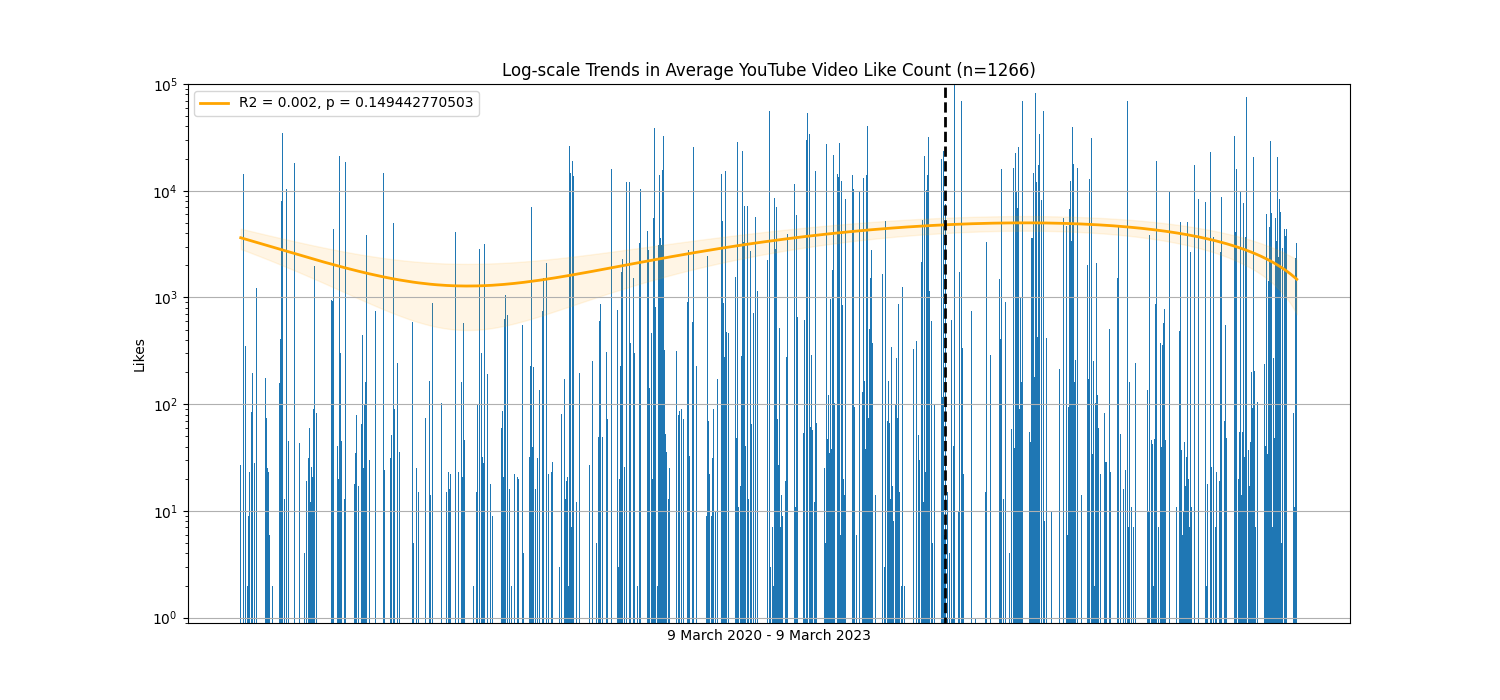
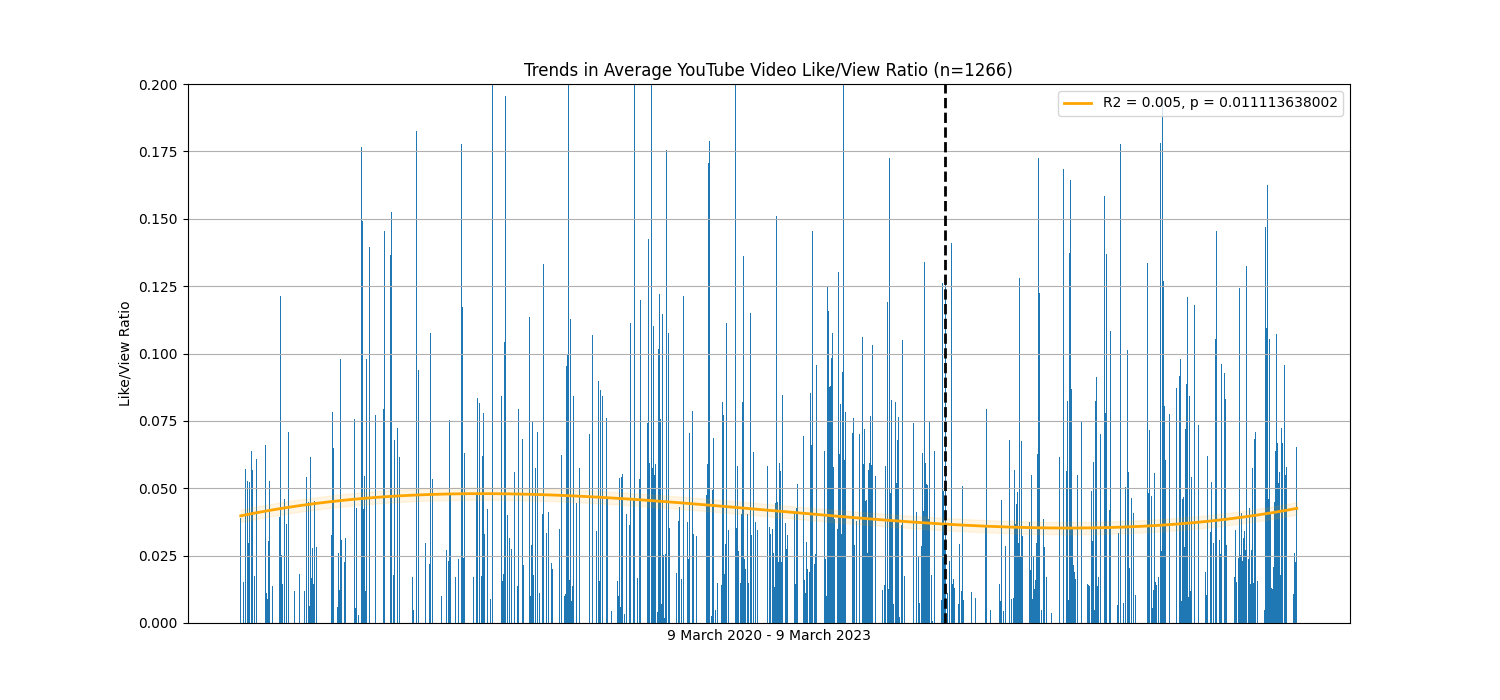
update

diff --git a/analysis.py b/analysis.py
@@ -27,7 +27,7 @@ def add_comment_weighted_scores(comments, videos):
     def calculate_score(comment, views):
         likes = comment['likes']
         replies = comment['reply_count']
-        return 0 if total_views == 0 else 0.5 * (likes*views/total_views) + 0.5 * (replies*views/total_views)
+        return 0.5 * (likes*views/total_views) + 0.5 * (replies*views/total_views)
     for video in comments:
         raw = [list(x.values())[0]['views'] for x in videos if list(x.values())[0]['video_id'] == video and 'views' in list(x.values())[0]]
         if len(raw) == 0:
@@ -41,6 +41,14 @@ def add_comment_weighted_scores(comments, videos):
         video[video_name]['score'] = 0
         for comment in comments[video_id]:
             video[video_name]['score'] += comment['score']
+
+def pretty_date(date1, date2):
+    code = {'01' : 'January', '02' : 'February', '03' : 'March', '04' : 'April', '05' : 'May', '06' : 'June',\
+            '07' : 'July', '08' : 'August', '09' : 'September', '10' : 'October', '11' : 'November', '12' : 'December'}
+    date1y, date1m, date1d = date1.split('-')
+    date2y, date2m, date2d = date2.split('-')
+    return f'{date1d.lstrip("0")} {code[date1m]} {date1y} - {date2d.lstrip("0")} {code[date2m]} {date2y}'
+
 
 
 def get_video_sentiments():
@@ -85,8 +93,9 @@ def get_sample_sizes(videos, video_sentiments, comments, comment_sentiments, vis
         if save_file:
             plt.savefig("images/sample_sizes.png")
 
-def analyze_video_sentiments(videos, video_sentiments):
+def analyze_video_sentiments(videos, video_sentiments, limit=None):
     dates = []
+    overall = []
     toxicity = []
     severe_toxicity = []
     identity_attack = []
@@ -99,7 +108,10 @@ def analyze_video_sentiments(videos, video_sentiments):
         video_id = video_values['video_id']
         if video_id not in video_sentiments:
             continue
-        date = date2num(np.datetime64(video_values['date_published'][:video_values['date_published'].index('T')]))
+        raw_date = video_values['date_published'][:video_values['date_published'].index('T')]
+        if limit and (raw_date < limit[0] or raw_date > limit[1]):
+            continue
+        date = date2num(np.datetime64(raw_date))
         dates.append(date)
         sentiment_values = video_sentiments[video_id]
         toxicity.append(sentiment_values['toxicity'])
@@ -108,11 +120,16 @@ def analyze_video_sentiments(videos, video_sentiments):
         insult.append(sentiment_values['insult'])
         profanity.append(sentiment_values['profanity'])
         threat.append(sentiment_values['threat'])
+        overall.append(sentiment_values['toxicity'] * 1/6 + sentiment_values['severe_toxicity'] * 1/6 + sentiment_values['identity_attack'] * 1/6 + \
+                       sentiment_values['insult'] * 1/6 + sentiment_values['profanity'] * 1/6 + sentiment_values['threat'] * 1/6)
 
     plt.figure(figsize=(15, 7))
     plt.gca().axes.get_xaxis().set_ticks([])
     plt.gca().set_ylim([0, 0.4])
-    plt.xlabel("9 March 2020 - 9 March 2023")
+    if not limit:
+        plt.xlabel("9 March 2020 - 9 March 2023")
+    else:
+        plt.xlabel(pretty_date(limit[0], limit[1]))
     plt.ylabel("Sentiment")
 
     ys = [toxicity, severe_toxicity, identity_attack, insult, profanity, threat]
@@ -128,17 +145,21 @@ def analyze_video_sentiments(videos, video_sentiments):
         plt.plot(dates, p(dates), color=color, label=labels[i] + ' (R2 = ' + str(round(rvalue**2, 3)) + ', p = ' + str(round(pvalue, 12)) + ')', linewidth=3)
         ci = 1.95 * np.std(ys[i]) / np.sqrt(len(dates))
         plt.fill_between(dates, (p(dates) - ci), (p(dates) + ci), color=color, alpha=0.1)
-        
+    
+    z = np.polyfit(dates, overall, 1)
+    p = np.poly1d(z)
+    rvalue, pvalue = get_correlation(dates, overall)
+    plt.plot(dates, p(dates), color='darkred', label='Overall (R2 = ' + str(round(rvalue**2, 3)) + ', p = ' + str(round(pvalue, 12)) + ')', linewidth=3, linestyle='-.')
 
     date = date2num(np.datetime64('2022-03-09'))
     plt.plot([date, date], [0, 1], color='black', linestyle='--')
     plt.legend()
     plt.grid(True)
     plt.title("Trends in Average Negative Sentiments in YouTube Video Titles (n=" + str(len(toxicity)) + ")")
-    #plt.savefig('images/video_sentiments.png')
+    #plt.savefig('images/video_sentiments6monthsafter.png')
     plt.show()
 
-def analyze_comment_sentiments(videos, comment_sentiments):
+def analyze_comment_sentiments(videos, comment_sentiments, limit=None):
     size = 0
     dates = []
     toxicity = []
@@ -147,13 +168,17 @@ def analyze_comment_sentiments(videos, comment_sentiments):
     insult = []
     profanity = []
     threat = []
+    overall = []
 
     for video_id in comment_sentiments:
         sentiment_values = comment_sentiments[video_id]
         if len(sentiment_values['toxicity']) < 5:
             continue
-        raw_date = list(filter(lambda x : list(x.values())[0]['video_id'] == video_id, videos))[0]
-        date = date2num(np.datetime64(list(raw_date.values())[0]['date_published'][:list(raw_date.values())[0]['date_published'].index('T')]))
+        raw_raw_date = list(filter(lambda x : list(x.values())[0]['video_id'] == video_id, videos))[0]
+        raw_date = list(raw_raw_date.values())[0]['date_published'][:list(raw_raw_date.values())[0]['date_published'].index('T')]
+        if limit and (raw_date < limit[0] or raw_date > limit[1]):
+            continue
+        date = date2num(np.datetime64(raw_date))
         dates.append(date)
         
         t = set(sentiment_values['toxicity'])
@@ -169,12 +194,18 @@ def analyze_comment_sentiments(videos, comment_sentiments):
         th = set(sentiment_values['threat'])
         threat.append(sum(th)/len(th))
 
+        overall.append(1/6 * sum(t)/len(t) + 1/6 * sum(st)/len(st) + 1/6 * sum(ia)/len(ia) + \
+                       1/6 * sum(i)/len(i) + 1/6 * sum(p)/len(p) + 1/6 * sum(th)/len(th))
+
         size += len(t)
 
     plt.figure(figsize=(15, 7))
     plt.gca().axes.get_xaxis().set_ticks([])
     plt.gca().set_ylim([0, 0.4])
-    plt.xlabel("9 March 2020 - 9 March 2023")
+    if not limit:
+        plt.xlabel("9 March 2020 - 9 March 2023")
+    else:
+        plt.xlabel(pretty_date(limit[0], limit[1]))
 
 
     ys = [toxicity, severe_toxicity, identity_attack, insult, profanity, threat]
@@ -183,17 +214,24 @@ def analyze_comment_sentiments(videos, comment_sentiments):
     for i in range(len(ys)):
         color = palette[i]
         plt.scatter(dates, ys[i], color=color, edgecolors=None, s=8, alpha=0.3)
-        z = np.polyfit(dates, ys[i], 3)
+        z = np.polyfit(dates, ys[i], 1)
         p = np.poly1d(z)
         rvalue, pvalue = get_correlation(dates, ys[i])
-        plt.plot(dates, p(dates), color=color, label=labels[i] + ' (R2 = ' + str(round(rvalue**2, 3)) + ', p = ' + str(round(pvalue, 12)) + ')', linewidth=2)
+        plt.plot(dates, p(dates), color=color, label=labels[i] + ' (R2 = ' + str(round(rvalue**2, 3)) + ', p = ' + str(round(pvalue, 12)) + ')', linewidth=3)
         ci = 1.95 * np.std(ys[i]) / np.sqrt(len(dates))
         plt.fill_between(dates, (p(dates) - ci), (p(dates) + ci), color=color, alpha=0.1)
+    z = np.polyfit(dates, overall, 1)
+    p = np.poly1d(z)
+    rvalue, pvalue = get_correlation(dates, overall)
+    plt.plot(dates, p(dates), color='darkred', label='Overall (R2 = ' + str(round(rvalue**2, 3)) + ', p = ' + str(round(pvalue, 12)) + ')', linewidth=3, linestyle='-.')
+    
+
     date = date2num(np.datetime64('2022-03-09'))
     plt.plot([date, date], [0, 1], color='black', linestyle='--', linewidth=2)
     plt.legend()
     plt.grid(True)
     plt.title("Trends in Average Negative Sentiments in YouTube Video Comments (n=" + str(size) + ")")
+    #plt.savefig('images/comment_sentiments6monthsafter.png')
     plt.show()
 
 def analyze_video_views(videos, limit=None):
@@ -205,7 +243,7 @@ def analyze_video_views(videos, limit=None):
         if 'views' not in video_values:
             continue
         raw_date = video_values['date_published'][:video_values['date_published'].index('T')]
-        if limit and raw_date < limit[0] or raw_date > limit[1]:
+        if limit and (raw_date < limit[0] or raw_date > limit[1]):
             continue
         date = date2num(np.datetime64(raw_date))
         dates.append(date)
@@ -219,7 +257,7 @@ def analyze_video_views(videos, limit=None):
     if not limit:
         plt.xlabel("9 March 2020 - 9 March 2023")
     else:
-        plt.xlabel(limit[0] + " - " + limit[1])
+        plt.xlabel(pretty_date(limit[0], limit[1]))
     plt.ylabel("Views")
     plt.bar(dates, views)
 
@@ -236,7 +274,7 @@ def analyze_video_views(videos, limit=None):
     plt.title("Log-scale Trends in Average YouTube Video View Count (n=" + str(len(views)) + ")")
     plt.legend()
     plt.grid(True)
-    #plt.savefig('images/views.png')
+    #plt.savefig('images/views6months.png')
     plt.show()
 
 def analyze_video_comments(videos, limit=None):
@@ -248,22 +286,22 @@ def analyze_video_comments(videos, limit=None):
         if 'comments' not in video_values:
             continue
         raw_date = video_values['date_published'][:video_values['date_published'].index('T')]
-        if limit and raw_date < limit[0] or raw_date > limit[1]:
+        if limit and (raw_date < limit[0] or raw_date > limit[1]):
             continue
         date = date2num(np.datetime64(raw_date))
         dates.append(date)
-        comment_count = int(video_values['comments'])
+        comment_count = int(video_values['comments'])/int(video_values['views'])
         comments.append(comment_count)
 
     plt.figure(figsize=(15, 7))
     plt.gca().axes.get_xaxis().set_ticks([])
-    plt.gca().axes.set_yscale('log')
-    plt.gca().set_ylim([0, 1e5])
+    #plt.gca().axes.set_yscale('log')
+    plt.gca().set_ylim([0, 0.1])
     if not limit:
         plt.xlabel("9 March 2020 - 9 March 2023")
     else:
-        plt.xlabel(limit[0] + " - " + limit[1])
-    plt.ylabel("Comments")
+        plt.xlabel(pretty_date(limit[0], limit[1]))
+    plt.ylabel("Comment/View Ratio")
     plt.bar(dates, comments)
 
     # Polynomial regression
@@ -275,11 +313,11 @@ def analyze_video_comments(videos, limit=None):
     plt.fill_between(dates, (p(dates) - ci), (p(dates) + ci), color='orange', alpha=0.1)
 
     date = date2num(np.datetime64('2022-03-09'))
-    plt.plot([date, date], [0, 1e5], color='black', linewidth=2, linestyle='--')
-    plt.title("Log-scale Trends in Average YouTube Video Comment Count (n=" + str(len(comments)) + ")")
+    plt.plot([date, date], [0, 0.1], color='black', linewidth=2, linestyle='--')
+    plt.title("Trends in Average YouTube Video Comment/View Ratio (n=" + str(len(comments)) + ")")
     plt.legend()
     plt.grid(True)
-    #plt.savefig('images/comments.png')
+    #plt.savefig('images/comments6months.png')
     plt.show()
 
 def analyze_video_likes(videos, limit=None):
@@ -291,23 +329,23 @@ def analyze_video_likes(videos, limit=None):
         if 'likes' not in video_values:
             continue
         raw_date = video_values['date_published'][:video_values['date_published'].index('T')]
-        if limit and raw_date < limit[0] or raw_date > limit[1]:
+        if limit and (raw_date < limit[0] or raw_date > limit[1]):
             continue
         date = date2num(np.datetime64(raw_date))
         dates.append(date)
-        comment_count = int(video_values['likes'])
-        likes.append(comment_count)
+        like_count = int(video_values['likes'])/int(video_values['views'])
+        likes.append(like_count)
 
 
     plt.figure(figsize=(15, 7))
     plt.gca().axes.get_xaxis().set_ticks([])
-    plt.gca().axes.set_yscale('log')
-    plt.gca().set_ylim([0, 1e5])
+    #plt.gca().axes.set_yscale('log')
+    plt.gca().set_ylim([0, 0.2])
     if not limit:
         plt.xlabel("9 March 2020 - 9 March 2023")
     else:
-        plt.xlabel(limit[0] + " - " + limit[1])
-    plt.ylabel("Likes")
+        plt.xlabel(pretty_date(limit[0], limit[1]))
+    plt.ylabel("Like/View Ratio")
     plt.bar(dates, likes)
 
     # Polynomial regression
@@ -319,11 +357,53 @@ def analyze_video_likes(videos, limit=None):
     plt.fill_between(dates, (p(dates) - ci), (p(dates) + ci), color='orange', alpha=0.1)
 
     date = date2num(np.datetime64('2022-03-09'))
-    plt.plot([date, date], [0, 1e5], color='black', linewidth=2, linestyle='--')
-    plt.title("Log-scale Trends in Average YouTube Video Like Count (n=" + str(len(likes)) + ")")
+    plt.plot([date, date], [0, 0.4], color='black', linewidth=2, linestyle='--')
+    plt.title("Trends in Average YouTube Video Like/View Ratio (n=" + str(len(likes)) + ")")
     plt.legend()
     plt.grid(True)
     #plt.savefig('images/likes.png')
+    plt.show()
+
+def analyze_video_scores(videos, limit=None):
+    dates = []
+    scores = []
+
+    for video in videos:
+        video_values = video[list(video.keys())[0]]
+        if 'score' not in video_values:
+            continue
+        raw_date = video_values['date_published'][:video_values['date_published'].index('T')]
+        if limit and (raw_date < limit[0] or raw_date > limit[1]):
+            continue
+        date = date2num(np.datetime64(raw_date))
+        dates.append(date)
+        score = int(video_values['score'])
+        scores.append(score)
+
+    plt.figure(figsize=(15, 7))
+    plt.gca().axes.get_xaxis().set_ticks([])
+    plt.gca().set_ylim([0, 60])
+    if not limit:
+        plt.xlabel("9 March 2020 - 9 March 2023")
+    else:
+        plt.xlabel(pretty_date(limit[0], limit[1]))
+    plt.ylabel("Score")
+    plt.bar(dates, scores)
+
+    # Polynomial regression
+    z = np.polyfit(dates, scores, 3)
+    p = np.poly1d(z)
+    rvalue, pvalue = get_correlation(dates, scores)
+    plt.plot(dates, p(dates), linewidth=2, color='orange', label='R2 = ' + str(round(rvalue**2, 3)) + ', p = ' + str(round(pvalue, 12)))
+    ci = 1.95 * np.std(scores) / np.sqrt(len(dates))
+    plt.fill_between(dates, (p(dates) - ci), (p(dates) + ci), color='orange', alpha=0.1)
+
+    date = date2num(np.datetime64('2022-03-09'))
+    plt.plot([date, date], [0, 1e5], color='black', linewidth=2, linestyle='--')
+    plt.title("Trends in Average YouTube Video Importance Score (n=" + str(len(scores)) + ")")
+    plt.legend()
+    plt.grid(True)
+    #plt.savefig('images/scores6months.png')
     plt.show()
 
 def analyze_video_scores_sentiment(videos, video_sentiments):
@@ -382,12 +462,16 @@ def main():
     video_sentiments = get_video_sentiments()
     comments = get_comments()
     comment_sentiments = get_comment_sentiments()
+
     #get_sample_sizes(videos, video_sentiments, comments, comment_sentiments, visualize=True, save_file=False)
-    #analyze_video_sentiments(videos, video_sentiments)
-    #analyze_comment_sentiments(videos, comment_sentiments)
+
+    #analyze_video_sentiments(videos, video_sentiments, limit=('2021-09-09', '2023-03-09'))
+    analyze_comment_sentiments(videos, comment_sentiments, limit=('2021-09-09', '2023-03-09'))
     #analyze_video_views(videos, limit=('2021-09-09', '2022-03-09'))
     #analyze_video_comments(videos, limit=('2021-09-09', '2022-03-09'))
-    #analyze_video_likes(videos, limit=('2021-09-09', '2022-03-09'))
+    #analyze_video_likes(videos)
+
     #add_comment_weighted_scores(comments, videos)
+    #analyze_video_scores(videos, limit=('2022-09-09', '2023-03-09'))
     #analyze_video_scores_sentiment(videos, video_sentiments)
 main()
